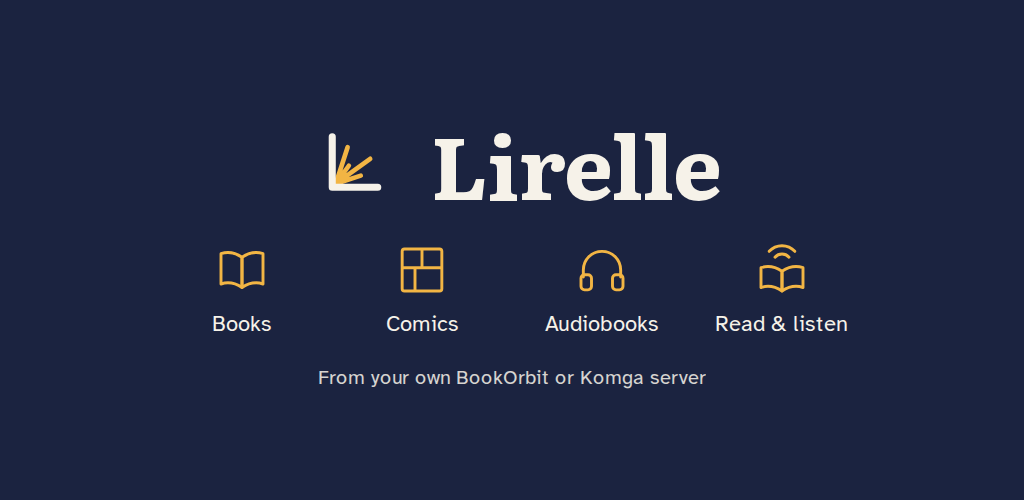
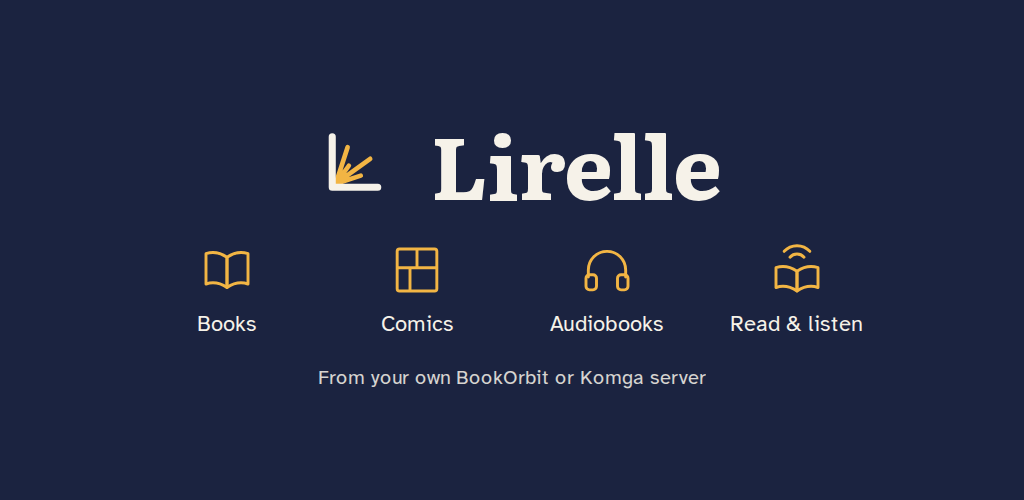
docs: the feature graphic in French for the French listing (#3)

diff --git a/art/feature-graphic.html b/art/feature-graphic.html
@@ -1,6 +1,7 @@
 <!doctype html>
 <!-- Google Play's feature graphic, 1024 × 500: rendered to fastlane/metadata/android/*/images/featureGraphic.png by
-     art/render-feature-graphic.mjs. Its fonts are the app's own reading fonts (OFL, see REUSE.toml). -->
+     art/render-feature-graphic.mjs, in English and in French (the data-fr texts). Its fonts are the app's own reading
+     fonts (OFL, see REUSE.toml). -->
 <html lang="en">
 <head>
 <meta charset="utf-8">
@@ -14,7 +15,7 @@ body { margin: 0; }
 .name { display: flex; align-items: center; gap: 24px; }
 h1 { margin: 0; font-family: LirelleSerif, serif; font-weight: 700; font-size: 88px; line-height: 1; letter-spacing: -1px; }
 .ways { display: flex; gap: 40px; align-items: flex-start; }
-.way { display: flex; flex-direction: column; align-items: center; gap: 12px; width: 140px; font-size: 22px; }
+.way { display: flex; flex-direction: column; align-items: center; gap: 12px; width: 150px; font-size: 22px; white-space: nowrap; }
 p { margin: 0; font-size: 20px; opacity: 0.86; }
 </style>
 </head>
@@ -32,22 +33,22 @@ p { margin: 0; font-size: 20px; opacity: 0.86; }
   <div class="ways">
     <div class="way">
       <svg viewBox="0 0 48 48" width="56" height="56" aria-hidden="true" fill="none" stroke="#F2B544" stroke-width="2.5" stroke-linecap="round" stroke-linejoin="round"><path d="M6 10c6-2 12-1 18 3v26c-6-4-12-5-18-3z"/><path d="M42 10c-6-2-12-1-18 3v26c6-4 12-5 18-3z"/></svg>
-      <span>Books</span>
+      <span data-fr="Livres">Books</span>
     </div>
     <div class="way">
       <svg viewBox="0 0 48 48" width="56" height="56" aria-hidden="true" fill="none" stroke="#F2B544" stroke-width="2.5" stroke-linejoin="round"><rect x="7" y="6" width="34" height="36" rx="2"/><path d="M7 22h34M24 6v16M18 22v20"/></svg>
-      <span>Comics</span>
+      <span data-fr="BD">Comics</span>
     </div>
     <div class="way">
       <svg viewBox="0 0 48 48" width="56" height="56" aria-hidden="true" fill="none" stroke="#F2B544" stroke-width="2.5" stroke-linecap="round" stroke-linejoin="round"><path d="M8 30v-6a16 16 0 0 1 32 0v6"/><rect x="6" y="28" width="9" height="13" rx="3"/><rect x="33" y="28" width="9" height="13" rx="3"/></svg>
-      <span>Audiobooks</span>
+      <span data-fr="Livres audio">Audiobooks</span>
     </div>
     <div class="way">
       <svg viewBox="0 0 48 48" width="56" height="56" aria-hidden="true" fill="none" stroke="#F2B544" stroke-width="2.5" stroke-linecap="round" stroke-linejoin="round"><path d="M6 22c6-2 12-1 18 3v17c-6-4-12-5-18-3z"/><path d="M42 22c-6-2-12-1-18 3v17c6-4 12-5 18-3z"/><path d="M18 13a8 8 0 0 1 12 0"/><path d="M13 8a15 15 0 0 1 22 0"/></svg>
-      <span>Read &amp; listen</span>
+      <span data-fr="Lire et écouter">Read &amp; listen</span>
     </div>
   </div>
-  <p>From your own BookOrbit or Komga server</p>
+  <p data-fr="Depuis votre propre serveur BookOrbit ou Komga">From your own BookOrbit or Komga server</p>
 </div>
 </body>
 </html>
